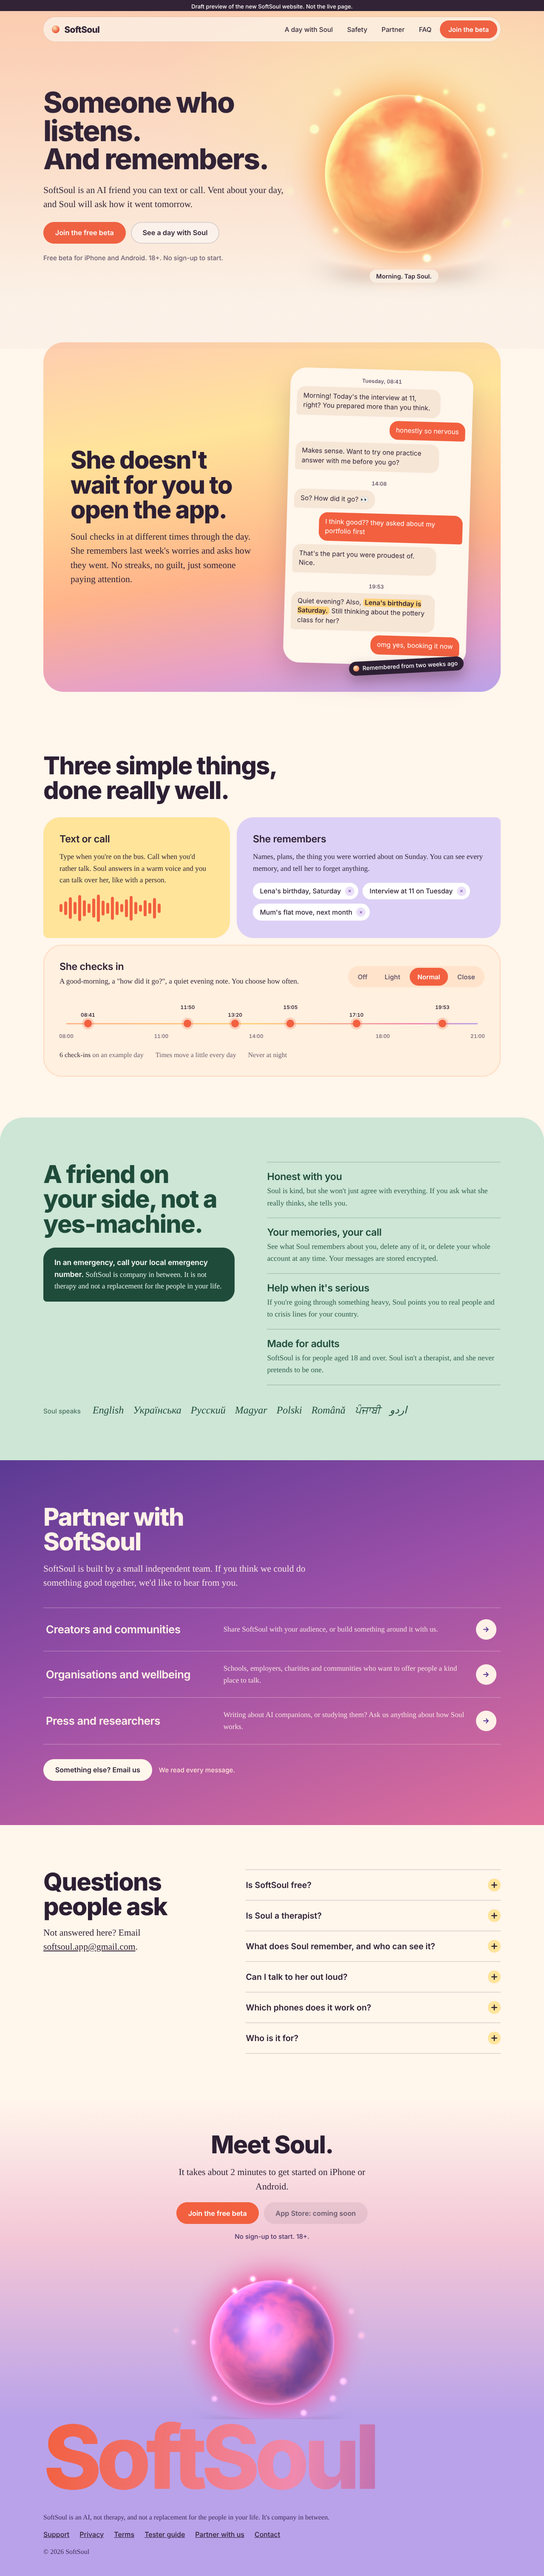
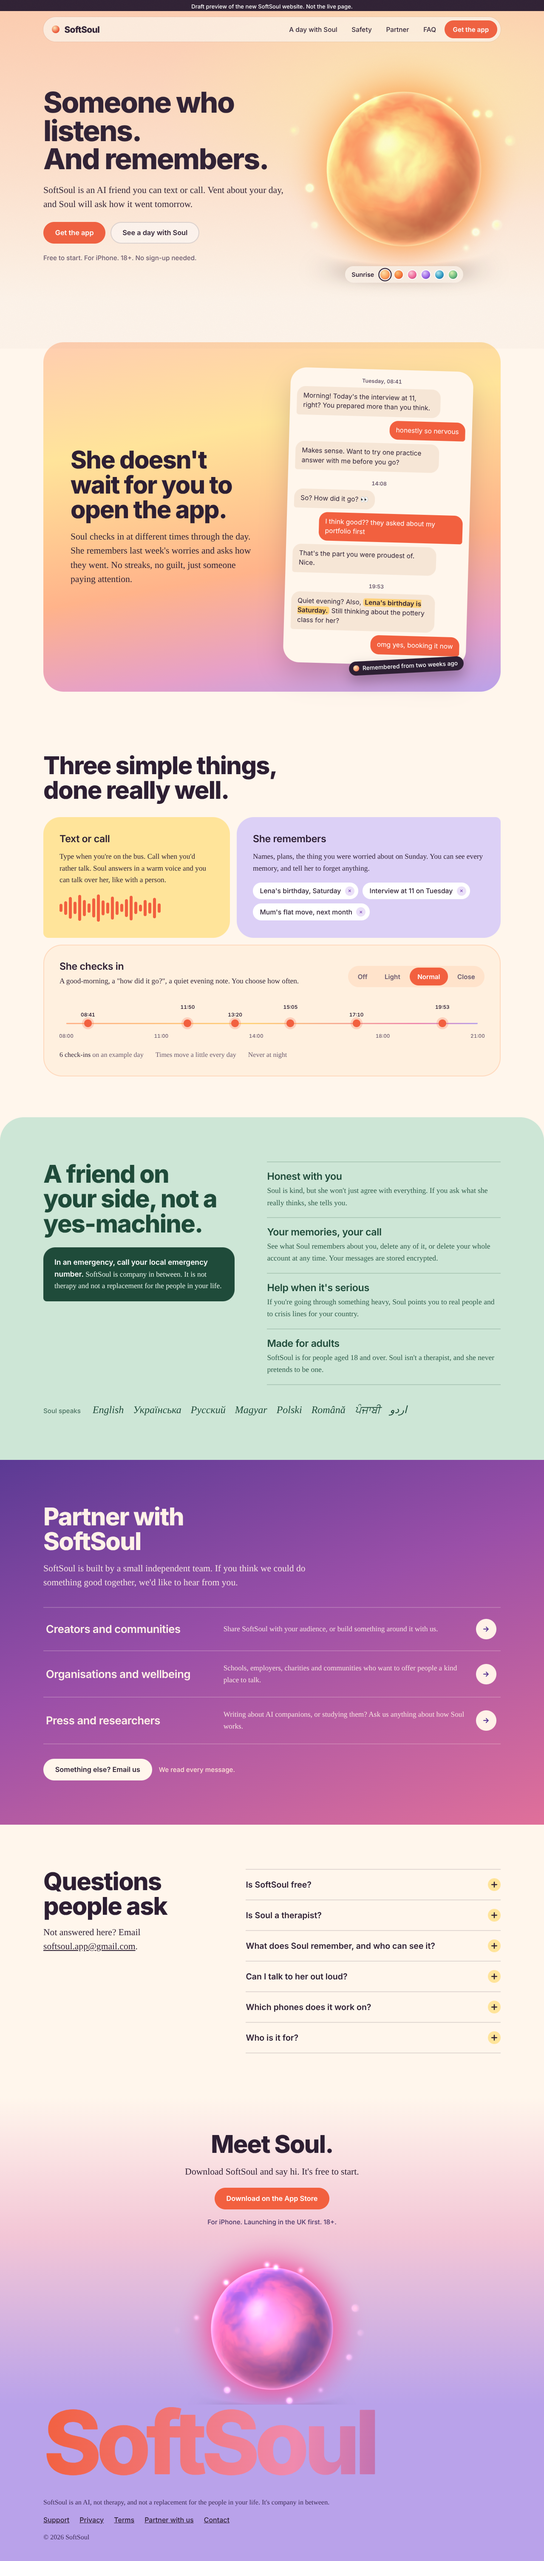
Draft v3: App Store CTA instead of beta, six orb colours (#154) (#16)
* wip: draft v3 (App Store CTA, six orb colours)

* Draft v3: App Store CTA instead of beta, six selectable orb colours (#154)

- "Join the beta" removed everywhere (site goes live after the app is published).
  CTA is now "Get the app" -> App Store link placeholder (TODO until approval).
  Android and tester-guide mentions removed; "launching in the UK first".
- Soul's colour is selectable (Sunrise, Ember, Rose, Violet, Ocean, Meadow):
  tap the orb or pick a dot; the hero sky changes with it.
- Preview screenshots regenerated.

Claude-Session: https://claude.ai/code/session_01WdnLMfNiVEY7kUGXcrQDuM

---------

diff --git a/draft/index.html b/draft/index.html
@@ -68,12 +68,14 @@ nav{position:sticky;top:10px;z-index:20;margin:10px auto 0;max-width:1076px;widt
 
 /* hero: the sky changes with Soul's time of day */
 .hero{position:relative;margin-top:-72px;padding:128px 0 40px;overflow:hidden;isolation:isolate}
-.sky{position:absolute;inset:0;z-index:-1}
-.sky-morning{background:radial-gradient(70% 60% at 78% 30%,#FFE9B0 0%,rgba(255,233,176,0) 70%),linear-gradient(180deg,#FFCFB2 0%,#FFE3CF 55%,var(--paper) 100%)}
-.sky-afternoon{background:radial-gradient(70% 60% at 78% 30%,#FFD27A 0%,rgba(255,210,122,0) 70%),linear-gradient(180deg,#FFC38F 0%,#FFD9B5 55%,var(--paper) 100%);opacity:0;transition:opacity 1.2s ease}
-.sky-evening{background:radial-gradient(70% 60% at 78% 30%,#FF9EC2 0%,rgba(255,158,194,0) 70%),linear-gradient(180deg,#B9A2EA 0%,#F2B6CE 58%,var(--paper) 100%);opacity:0;transition:opacity 1.2s ease}
-.hero[data-time="afternoon"] .sky-afternoon{opacity:1}
-.hero[data-time="evening"] .sky-evening{opacity:1}
+.sky{position:absolute;inset:0;z-index:-1;opacity:0;transition:opacity 1.2s ease}
+.sky[data-i="0"]{background:radial-gradient(70% 60% at 78% 30%,#FFE9B0 0%,rgba(255,233,176,0) 70%),linear-gradient(180deg,#FFCFB2 0%,#FFE3CF 55%,var(--paper) 100%)}
+.sky[data-i="1"]{background:radial-gradient(70% 60% at 78% 30%,#FFD27A 0%,rgba(255,210,122,0) 70%),linear-gradient(180deg,#FFC38F 0%,#FFD9B5 55%,var(--paper) 100%)}
+.sky[data-i="2"]{background:radial-gradient(70% 60% at 78% 30%,#FFB3CB 0%,rgba(255,179,203,0) 70%),linear-gradient(180deg,#FFC3D3 0%,#FFE0E6 55%,var(--paper) 100%)}
+.sky[data-i="3"]{background:radial-gradient(70% 60% at 78% 30%,#C9B3FF 0%,rgba(201,179,255,0) 70%),linear-gradient(180deg,#B9A2EA 0%,#E4D6F7 55%,var(--paper) 100%)}
+.sky[data-i="4"]{background:radial-gradient(70% 60% at 78% 30%,#A6E3EC 0%,rgba(166,227,236,0) 70%),linear-gradient(180deg,#B7E3EE 0%,#DDF1F0 55%,var(--paper) 100%)}
+.sky[data-i="5"]{background:radial-gradient(70% 60% at 78% 30%,#C8EDB3 0%,rgba(200,237,179,0) 70%),linear-gradient(180deg,#C6E8C4 0%,#E4F2D8 55%,var(--paper) 100%)}
+.hero[data-color="0"] .sky[data-i="0"],.hero[data-color="1"] .sky[data-i="1"],.hero[data-color="2"] .sky[data-i="2"],.hero[data-color="3"] .sky[data-i="3"],.hero[data-color="4"] .sky[data-i="4"],.hero[data-color="5"] .sky[data-i="5"]{opacity:1}
 .hero-grid{display:grid;grid-template-columns:minmax(0,1.08fr) minmax(0,.92fr);align-items:center}
 .hero-copy{display:grid;gap:24px;justify-items:start;position:relative;z-index:2}
 .hero-copy .lead{max-width:27em}
@@ -83,7 +85,12 @@ nav{position:sticky;top:10px;z-index:20;margin:10px auto 0;max-width:1076px;widt
 .orb-cv{display:block;width:100%;aspect-ratio:1;cursor:pointer;touch-action:pan-y}
 .orb-fallback{display:none;width:60%;aspect-ratio:1;margin:20% auto;border-radius:50%;background:radial-gradient(circle at 34% 28%,#FFF0C8 0,rgba(255,240,200,0) 38%),radial-gradient(circle at 50% 58%,#F77B3B 0,#F2603F 52%,#B8352A 100%);box-shadow:0 40px 80px rgba(201,60,43,.35),inset 0 -24px 50px rgba(120,20,30,.3)}
 .no-gl .orb-cv{display:none}.no-gl .orb-fallback{display:block}
-.orb-tag{position:absolute;left:50%;bottom:9%;transform:translateX(-50%);font:600 .9rem var(--display);background:rgba(255,246,236,.82);backdrop-filter:blur(8px);border-radius:999px;padding:.5em 1.1em;white-space:nowrap;pointer-events:none}
+.orb-tag{position:absolute;left:50%;bottom:9%;transform:translateX(-50%);display:flex;align-items:center;gap:.7em;font:600 .9rem var(--display);background:rgba(255,246,236,.85);backdrop-filter:blur(8px);border-radius:999px;padding:.25em .5em .25em 1.1em;white-space:nowrap;pointer-events:none}
+.swatches{display:flex}
+.sw{pointer-events:auto;width:32px;height:32px;border:0;background:none;padding:0;cursor:pointer;display:grid;place-items:center}
+.sw i{display:block;width:20px;height:20px;border-radius:50%;box-shadow:0 0 0 2px #fff;transition:transform .2s}
+.sw[aria-pressed="true"] i{box-shadow:0 0 0 2px #fff,0 0 0 4px var(--ink);transform:scale(1.12)}
+.no-gl .orb-tag{display:none}
 @media (max-width:860px){
   .hero{padding-top:104px}
   .hero-grid{grid-template-columns:1fr}
@@ -195,7 +202,7 @@ footer a{color:#2D1F33}
   html{scroll-behavior:auto}
   .wave i{animation:none;height:50%}
   .js .msg.pending{opacity:1;transform:none}
-  .sky-afternoon,.sky-evening,.dot,.row{transition:none}
+  .sky,.dot,.row{transition:none}
 }
 </style>
 </head>
@@ -210,31 +217,34 @@ footer a{color:#2D1F33}
       <a class="t" href="#safety">Safety</a>
       <a class="t" href="#partner">Partner</a>
       <a class="t" href="#faq">FAQ</a>
-      <a class="btn btn-main" href="#join">Join the beta</a>
+      <a class="btn btn-main" href="#join">Get the app</a>
     </div>
   </div>
 </nav>
 
 <main id="top">
 
-  <section class="hero" id="heroSection" data-time="morning" aria-labelledby="h1">
-    <div class="sky sky-morning" aria-hidden="true"></div>
-    <div class="sky sky-afternoon" aria-hidden="true"></div>
-    <div class="sky sky-evening" aria-hidden="true"></div>
+  <section class="hero" id="heroSection" data-color="0" aria-labelledby="h1">
+    <div class="sky" data-i="0" aria-hidden="true"></div>
+    <div class="sky" data-i="1" aria-hidden="true"></div>
+    <div class="sky" data-i="2" aria-hidden="true"></div>
+    <div class="sky" data-i="3" aria-hidden="true"></div>
+    <div class="sky" data-i="4" aria-hidden="true"></div>
+    <div class="sky" data-i="5" aria-hidden="true"></div>
     <div class="wrap hero-grid">
       <div class="hero-copy">
         <h1 id="h1"><span class="ln">Someone who</span> <span class="ln">listens.</span> <span class="ln">And remembers.</span></h1>
         <p class="lead">SoftSoul is an AI friend you can text or call. Vent about your day, and Soul will ask how it went tomorrow.</p>
         <div class="cta-row">
-          <a class="btn btn-main" href="#join">Join the free beta</a>
+          <a class="btn btn-main" href="#join">Get the app</a>
           <a class="btn btn-line" href="#day">See a day with Soul</a>
         </div>
-        <p class="small">Free beta for iPhone and Android. 18+. No sign-up to start.</p>
+        <p class="small">Free to start. For iPhone. 18+. No sign-up needed.</p>
       </div>
       <div class="orb-stage" id="heroOrb">
-        <canvas class="orb-cv" id="orbHero" role="button" tabindex="0" aria-label="Soul, a glowing orb. Tap to change the time of day."></canvas>
+        <canvas class="orb-cv" id="orbHero" role="button" tabindex="0" aria-label="Soul, a glowing orb. Tap to change her colour."></canvas>
         <div class="orb-fallback" aria-hidden="true"></div>
-        <div class="orb-tag" id="orbTag" aria-live="polite">Morning. Tap Soul.</div>
+        <div class="orb-tag"><span id="orbName" aria-live="polite">Sunrise</span><span class="swatches" id="swatches" role="group" aria-label="Soul's colour"></span></div>
       </div>
     </div>
   </section>
@@ -352,11 +362,11 @@ footer a{color:#2D1F33}
         <p class="lead">Not answered here? Email <a href="mailto:softsoul.app@gmail.com">softsoul.app@gmail.com</a>.</p>
       </div>
       <div>
-        <details><summary>Is SoftSoul free?</summary><p>Yes, it's free to start, and the beta is free. There's an optional paid plan, Plus, for people who want more.</p></details>
+        <details><summary>Is SoftSoul free?</summary><p>Yes, it's free to start. There's an optional paid plan, Plus, for people who want more.</p></details>
         <details><summary>Is Soul a therapist?</summary><p>No. Soul is an AI friend, not therapy and not medical advice. If you're struggling, she'll encourage you to reach out to real people and will point you to crisis lines.</p></details>
         <details><summary>What does Soul remember, and who can see it?</summary><p>She remembers the things that matter in your chats, like names, plans and worries. You can see every memory in the app and delete any of it, or delete your whole account. Read the <a href="https://softsoul.app/privacy.html">privacy policy</a> for details.</p></details>
         <details><summary>Can I talk to her out loud?</summary><p>Yes. You can text, or start a voice call and just talk.</p></details>
-        <details><summary>Which phones does it work on?</summary><p>iPhone and Android. The beta is open now, and the App Store version is on its way.</p></details>
+        <details><summary>Which phones does it work on?</summary><p>iPhone, from the App Store. We're launching in the UK first.</p></details>
         <details><summary>Who is it for?</summary><p>Adults, 18 and over.</p></details>
       </div>
     </div>
@@ -365,12 +375,12 @@ footer a{color:#2D1F33}
   <section class="join" id="join" aria-labelledby="join-t">
     <div class="wrap">
       <h2 id="join-t">Meet Soul.</h2>
-      <p class="lead">It takes about 2 minutes to get started on iPhone or Android.</p>
+      <p class="lead">Download SoftSoul and say hi. It's free to start.</p>
       <div class="cta-row" style="justify-content:center">
-        <a class="btn btn-main" href="https://softsoul.app/">Join the free beta</a>
-        <span class="btn btn-soon" aria-disabled="true">App Store: coming soon</span>
+        <!-- TODO: replace this link with the real SoftSoul App Store URL (and the official Apple badge) after approval -->
+        <a class="btn btn-main" href="https://apps.apple.com/">Download on the App Store</a>
       </div>
-      <p class="small" style="color:#4A3466">No sign-up to start. 18+.</p>
+      <p class="small" style="color:#4A3466">For iPhone. Launching in the UK first. 18+.</p>
       <div class="orb-stage" id="joinOrb">
         <canvas class="orb-cv" id="orbJoin" aria-hidden="true"></canvas>
         <div class="orb-fallback" aria-hidden="true"></div>
@@ -387,7 +397,6 @@ footer a{color:#2D1F33}
       <a href="https://softsoul.app/support.html">Support</a>
       <a href="https://softsoul.app/privacy.html">Privacy</a>
       <a href="https://softsoul.app/terms.html">Terms</a>
-      <a href="https://softsoul.app/guide.html">Tester guide</a>
       <a href="#partner">Partner with us</a>
       <a href="mailto:softsoul.app@gmail.com">Contact</a>
     </div>
@@ -403,7 +412,7 @@ var reduce = matchMedia('(prefers-reduced-motion: reduce)').matches;
 var VERT = 'attribute vec2 a;void main(){gl_Position=vec4(a,0.,1.);}';
 var FRAG = [
 'precision highp float;',
-'uniform vec2 uRes;uniform float uTime;uniform vec2 uPtr;uniform float uMood;uniform float uPulse;',
+'uniform vec2 uRes;uniform float uTime;uniform vec2 uPtr;uniform vec3 uDeep;uniform vec3 uMid;uniform vec3 uLite;uniform float uPulse;',
 'float hash(vec3 p){p=fract(p*0.3183099+.1);p*=17.0;return fract(p.x*p.y*p.z*(p.x+p.y+p.z));}',
 'float noise(vec3 x){vec3 i=floor(x);vec3 f=fract(x);f=f*f*(3.0-2.0*f);',
 ' return mix(mix(mix(hash(i),hash(i+vec3(1,0,0)),f.x),mix(hash(i+vec3(0,1,0)),hash(i+vec3(1,1,0)),f.x),f.y),',
@@ -417,15 +426,10 @@ var FRAG = [
 ' float R=.31*breathe;',
 ' vec2 c=vec2(uPtr.x*.012,.03+.012*sin(t*.7)+uPtr.y*.012);',
 ' vec2 p=uv-c; float r=length(p);',
-/* palette for morning / afternoon / evening */
-' vec3 d0=vec3(.88,.36,.22),m0=vec3(1.,.64,.36),l0=vec3(1.,.89,.67);',
-' vec3 d1=vec3(.80,.24,.17),m1=vec3(.97,.47,.22),l1=vec3(1.,.76,.46);',
-' vec3 d2=vec3(.42,.22,.66),m2=vec3(.90,.34,.60),l2=vec3(1.,.72,.80);',
-' float k1=smoothstep(0.,.5,uMood),k2=smoothstep(.5,1.,uMood);',
-' vec3 deep=mix(mix(d0,d1,k1),d2,k2);vec3 mid=mix(mix(m0,m1,k1),m2,k2);vec3 lite=mix(mix(l0,l1,k1),l2,k2);',
+' vec3 deep=uDeep;vec3 mid=uMid;vec3 lite=uLite;',
 /* ground shadow: she floats above the page */
 ' float sh=exp(-(uv.x*uv.x)/(R*R*.8)-((uv.y+.36)*(uv.y+.36))/(R*R*.04))*(.30-.05*sin(t*.9))*(1.-smoothstep(.18,.46,abs(uv.x)))*(1.-smoothstep(.38,.49,-uv.y));',
-' vec3 shCol=mix(vec3(.45,.18,.12),vec3(.30,.12,.38),uMood);',
+' vec3 shCol=deep*.35;',
 ' vec4 outc=vec4(0.);',
 /* outer glow */
 ' float gd=max(r-R,0.);',
@@ -453,7 +457,7 @@ var FRAG = [
 '  float core=exp(-(r*r)/(R*R)*2.6)*(.42+.2*beat);',
 '  vec3 col=base*(.52+.7*dif);',
 '  col=mix(col,deep*.8,(1.-dif)*.35*(1.-core));',
-'  col+=mix(vec3(1.,.9,.62),vec3(1.,.78,.84),uMood)*core;',
+'  col+=(lite*.55+vec3(.5,.45,.35))*core;',
 '  col+=lite*fres*.75;',
 '  col+=vec3(.78,.62,1.)*pow(1.-n.z,5.)*.16;',
 '  col+=vec3(1.,.98,.92)*spec;',
@@ -475,6 +479,18 @@ var FRAG = [
 '}'
 ].join('\n');
 
+var PALETTES=[
+ {n:'Sunrise',d:[.88,.36,.22],m:[1,.64,.36],l:[1,.89,.67]},
+ {n:'Ember',d:[.80,.24,.17],m:[.97,.47,.22],l:[1,.76,.46]},
+ {n:'Rose',d:[.72,.18,.42],m:[.95,.42,.62],l:[1,.78,.85]},
+ {n:'Violet',d:[.30,.16,.62],m:[.62,.40,.92],l:[.88,.80,1]},
+ {n:'Ocean',d:[.08,.30,.55],m:[.18,.62,.78],l:[.70,.92,.95]},
+ {n:'Meadow',d:[.14,.42,.30],m:[.42,.74,.50],l:[.86,.96,.70]},
+ {n:'Dusk',d:[.42,.22,.66],m:[.90,.34,.60],l:[1,.72,.80]}
+];
+function flat(p){return p.d.concat(p.m,p.l);}
+function rgb(c){return 'rgb('+Math.round(c[0]*255)+','+Math.round(c[1]*255)+','+Math.round(c[2]*255)+')';}
+
 function initOrb(cv, opts){
   opts = opts || {};
   var stage = cv.parentNode;
@@ -490,10 +506,11 @@ function initOrb(cv, opts){
   var buf=gl.createBuffer();gl.bindBuffer(gl.ARRAY_BUFFER,buf);
   gl.bufferData(gl.ARRAY_BUFFER,new Float32Array([-1,-1,1,-1,-1,1,1,1]),gl.STATIC_DRAW);
   var loc=gl.getAttribLocation(pr,'a');gl.enableVertexAttribArray(loc);gl.vertexAttribPointer(loc,2,gl.FLOAT,false,0,0);
-  var U={res:gl.getUniformLocation(pr,'uRes'),time:gl.getUniformLocation(pr,'uTime'),ptr:gl.getUniformLocation(pr,'uPtr'),mood:gl.getUniformLocation(pr,'uMood'),pulse:gl.getUniformLocation(pr,'uPulse')};
+  var U={res:gl.getUniformLocation(pr,'uRes'),time:gl.getUniformLocation(pr,'uTime'),ptr:gl.getUniformLocation(pr,'uPtr'),deep:gl.getUniformLocation(pr,'uDeep'),mid:gl.getUniformLocation(pr,'uMid'),lite:gl.getUniformLocation(pr,'uLite'),pulse:gl.getUniformLocation(pr,'uPulse')};
   gl.clearColor(0,0,0,0);
 
-  var state={mood:opts.mood||0,target:opts.mood||0,pulse:0,px:0,py:0,tx:0,ty:0,visible:true,t0:performance.now()-(opts.startAt||4000)};
+  var start=flat(PALETTES[opts.palette||0]);
+  var state={cur:start.slice(),tar:start.slice(),pulse:0,px:0,py:0,tx:0,ty:0,visible:true,t0:performance.now()-(opts.startAt||4000)};
   function resize(){
     var dpr=Math.min(window.devicePixelRatio||1,2), w=Math.round(cv.clientWidth*dpr);
     if(cv.width!==w){cv.width=w;cv.height=w;gl.viewport(0,0,w,w);}
@@ -501,13 +518,16 @@ function initOrb(cv, opts){
   function draw(now){
     resize();
     state.px+=(state.tx-state.px)*.08; state.py+=(state.ty-state.py)*.08;
-    state.mood+=(state.target-state.mood)*.05;
+    for(var k=0;k<9;k++){state.cur[k]+=(state.tar[k]-state.cur[k])*.07;}
     state.pulse*=.95; if(state.pulse<.003) state.pulse=0;
+    var c=state.cur;
     gl.clear(gl.COLOR_BUFFER_BIT);
     gl.uniform2f(U.res,cv.width,cv.height);
     gl.uniform1f(U.time,(now-state.t0)/1000);
     gl.uniform2f(U.ptr,state.px,state.py);
-    gl.uniform1f(U.mood,state.mood);
+    gl.uniform3f(U.deep,c[0],c[1],c[2]);
+    gl.uniform3f(U.mid,c[3],c[4],c[5]);
+    gl.uniform3f(U.lite,c[6],c[7],c[8]);
     gl.uniform1f(U.pulse,state.pulse);
     gl.drawArrays(gl.TRIANGLE_STRIP,0,4);
   }
@@ -522,26 +542,33 @@ function initOrb(cv, opts){
   window.addEventListener('resize',function(){ if(reduce) draw(performance.now()); });
   return {
     pulse:function(){state.pulse=1; if(reduce) draw(performance.now());},
-    setMood:function(m){state.target=m; if(reduce){state.mood=m;draw(performance.now());}}
+    setPalette:function(i){state.tar=flat(PALETTES[i]); if(reduce){state.cur=state.tar.slice();draw(performance.now());}}
   };
 }
 
-/* Hero Soul: tap her to change the time of day */
+/* Hero Soul: tap her, or pick a colour */
 (function(){
-  var cv=document.getElementById('orbHero'), hero=document.getElementById('heroSection'), tag=document.getElementById('orbTag');
-  var names=['morning','afternoon','evening'], labels=['Morning. Tap Soul.','Afternoon. Tap Soul.','Evening. Tap Soul.'], moods=[0,.5,1], idx=0;
-  var orb=initOrb(cv,{mood:0,startAt:5200});
+  var cv=document.getElementById('orbHero'), hero=document.getElementById('heroSection'), nameEl=document.getElementById('orbName'), sw=document.getElementById('swatches');
+  var orb=initOrb(cv,{palette:0,startAt:5200});
   if(!orb) return;
-  function next(){
-    idx=(idx+1)%3; orb.setMood(moods[idx]); orb.pulse();
-    hero.setAttribute('data-time',names[idx]); tag.textContent=labels[idx];
+  var idx=0, btns=[];
+  function set(i){
+    idx=i; orb.setPalette(i); orb.pulse();
+    hero.setAttribute('data-color',i); nameEl.textContent=PALETTES[i].n;
+    btns.forEach(function(b,j){b.setAttribute('aria-pressed',j===i)});
   }
-  cv.addEventListener('click',next);
-  cv.addEventListener('keydown',function(e){ if(e.key==='Enter'||e.key===' '){e.preventDefault();next();} });
+  for(var i=0;i<6;i++){(function(i){
+    var p=PALETTES[i], b=document.createElement('button'), d=document.createElement('i');
+    b.type='button'; b.className='sw'; b.setAttribute('aria-label',p.n); b.setAttribute('aria-pressed',i===0);
+    d.style.background='radial-gradient(circle at 35% 30%,'+rgb(p.l)+','+rgb(p.m)+' 55%,'+rgb(p.d)+')';
+    b.appendChild(d); b.addEventListener('click',function(){set(i)}); sw.appendChild(b); btns.push(b);
+  })(i);}
+  cv.addEventListener('click',function(){set((idx+1)%6)});
+  cv.addEventListener('keydown',function(e){ if(e.key==='Enter'||e.key===' '){e.preventDefault();set((idx+1)%6);} });
 })();
 
-/* Join Soul: it is evening, she is settled */
-initOrb(document.getElementById('orbJoin'),{mood:1,startAt:9000});
+/* Join Soul: settled into dusk colours */
+initOrb(document.getElementById('orbJoin'),{palette:6,startAt:9000});
 
 /* Voice wave for "Text or call" */
 (function(){

diff --git a/draft/preview/README.md b/draft/preview/README.md
@@ -1,12 +1,12 @@
-# SoftSoul website draft: preview (5 Nov 2026, v2)
+# SoftSoul website draft: preview (5 Nov 2026, v3)
 
 Screenshots of `draft/index.html`, so the draft can be viewed on github.com when softsoul.app is blocked.
 Fonts in these pictures are fallbacks (my environment can't load Google Fonts). The real page uses Bricolage Grotesque + Newsreader.
 
-## Soul through the day (tap the orb on the real page)
-<img src="orb-1-morning.png" width="800" alt="Morning">
-<img src="orb-2-afternoon.png" width="800" alt="Afternoon">
-<img src="orb-3-evening.png" width="800" alt="Evening">
+## Soul's colours (tap the orb, or pick a dot under it)
+Sunrise, Ember, Rose, Violet, Ocean, Meadow. The sky behind her changes with her colour.
+
+<img src="orb-colours.png" width="900" alt="The six orb colours">
 
 ## Whole page, laptop
 <img src="laptop-full.png" width="900" alt="Whole page on a laptop">
